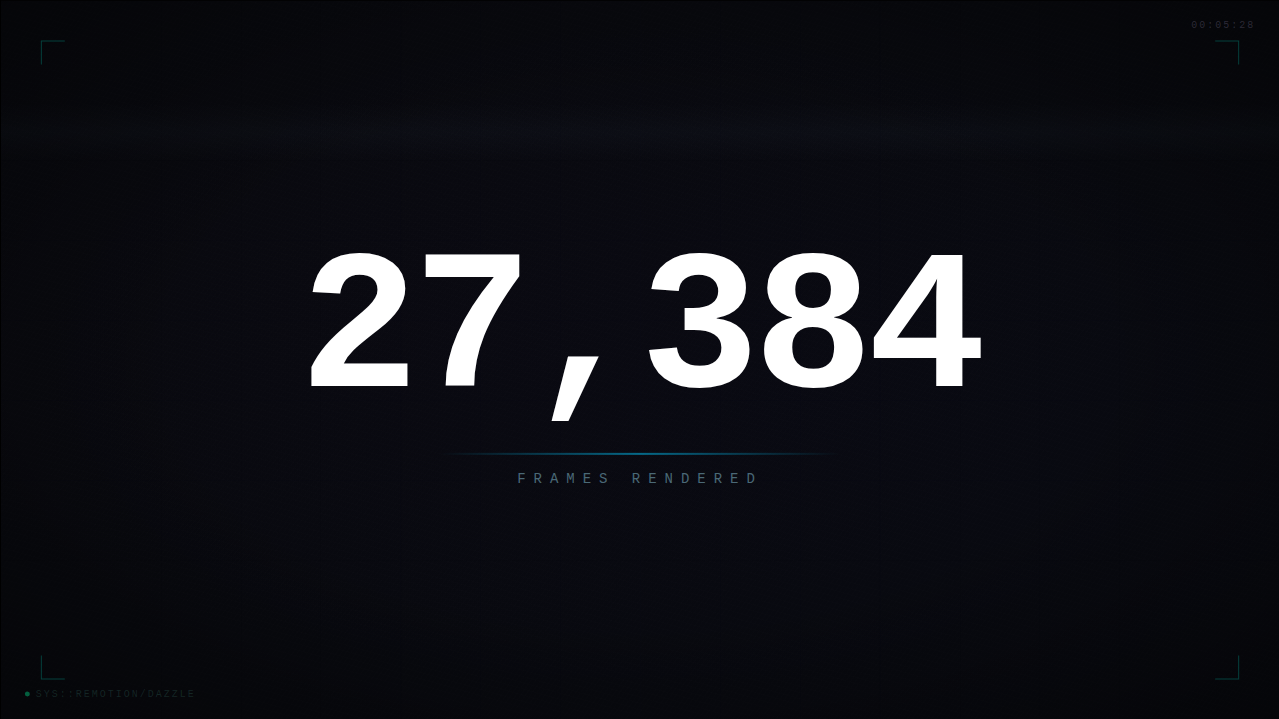
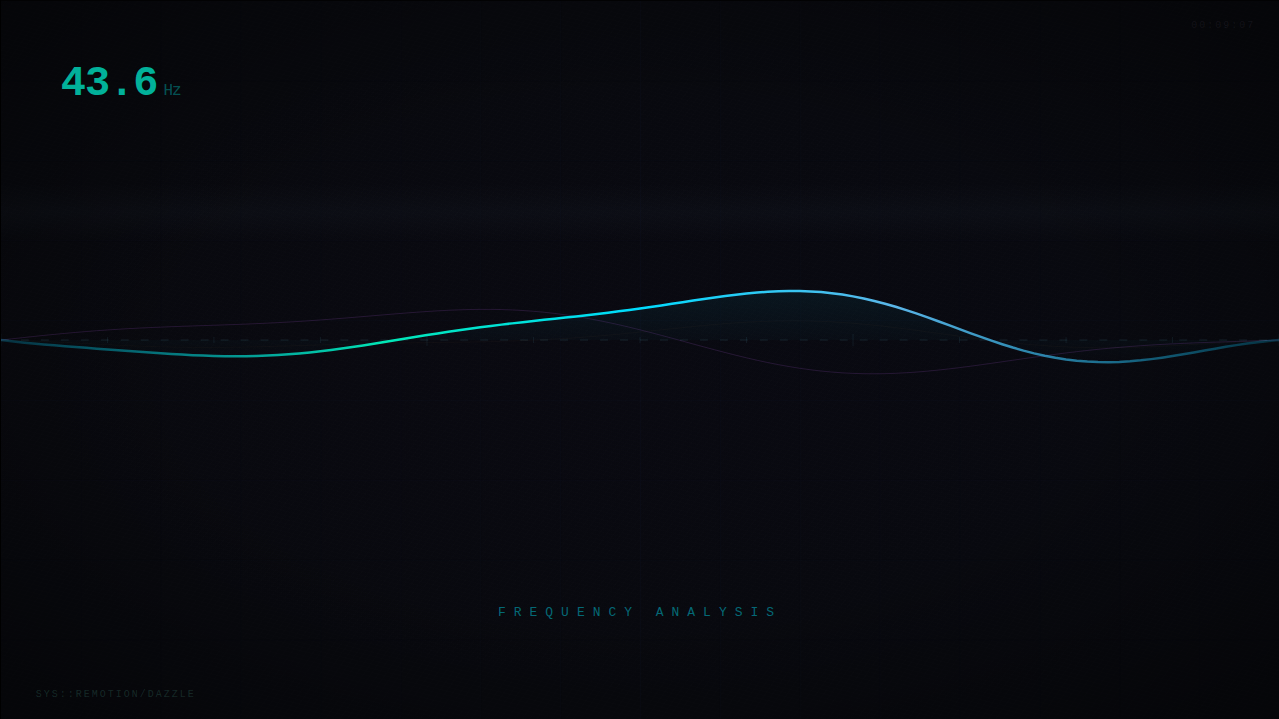
Final preview images: waveform, Go Live, full coding session
- Remotion: frequency analysis waveform scene
- Hello-world: Go Live with green glow and waveform (also main README hero)
- Claude-code-stream: populated feed with USER/CLAUDE/agents/diffs

diff --git a/README.md b/README.md
@@ -2,6 +2,8 @@
 
 Runnable examples for [Dazzle](https://dazzle.fm) — cloud stages that render and broadcast your content as a live stream.
 
+![Preview](hello-world/preview.png)
+
 ## Examples
 
 | Example | Description |
